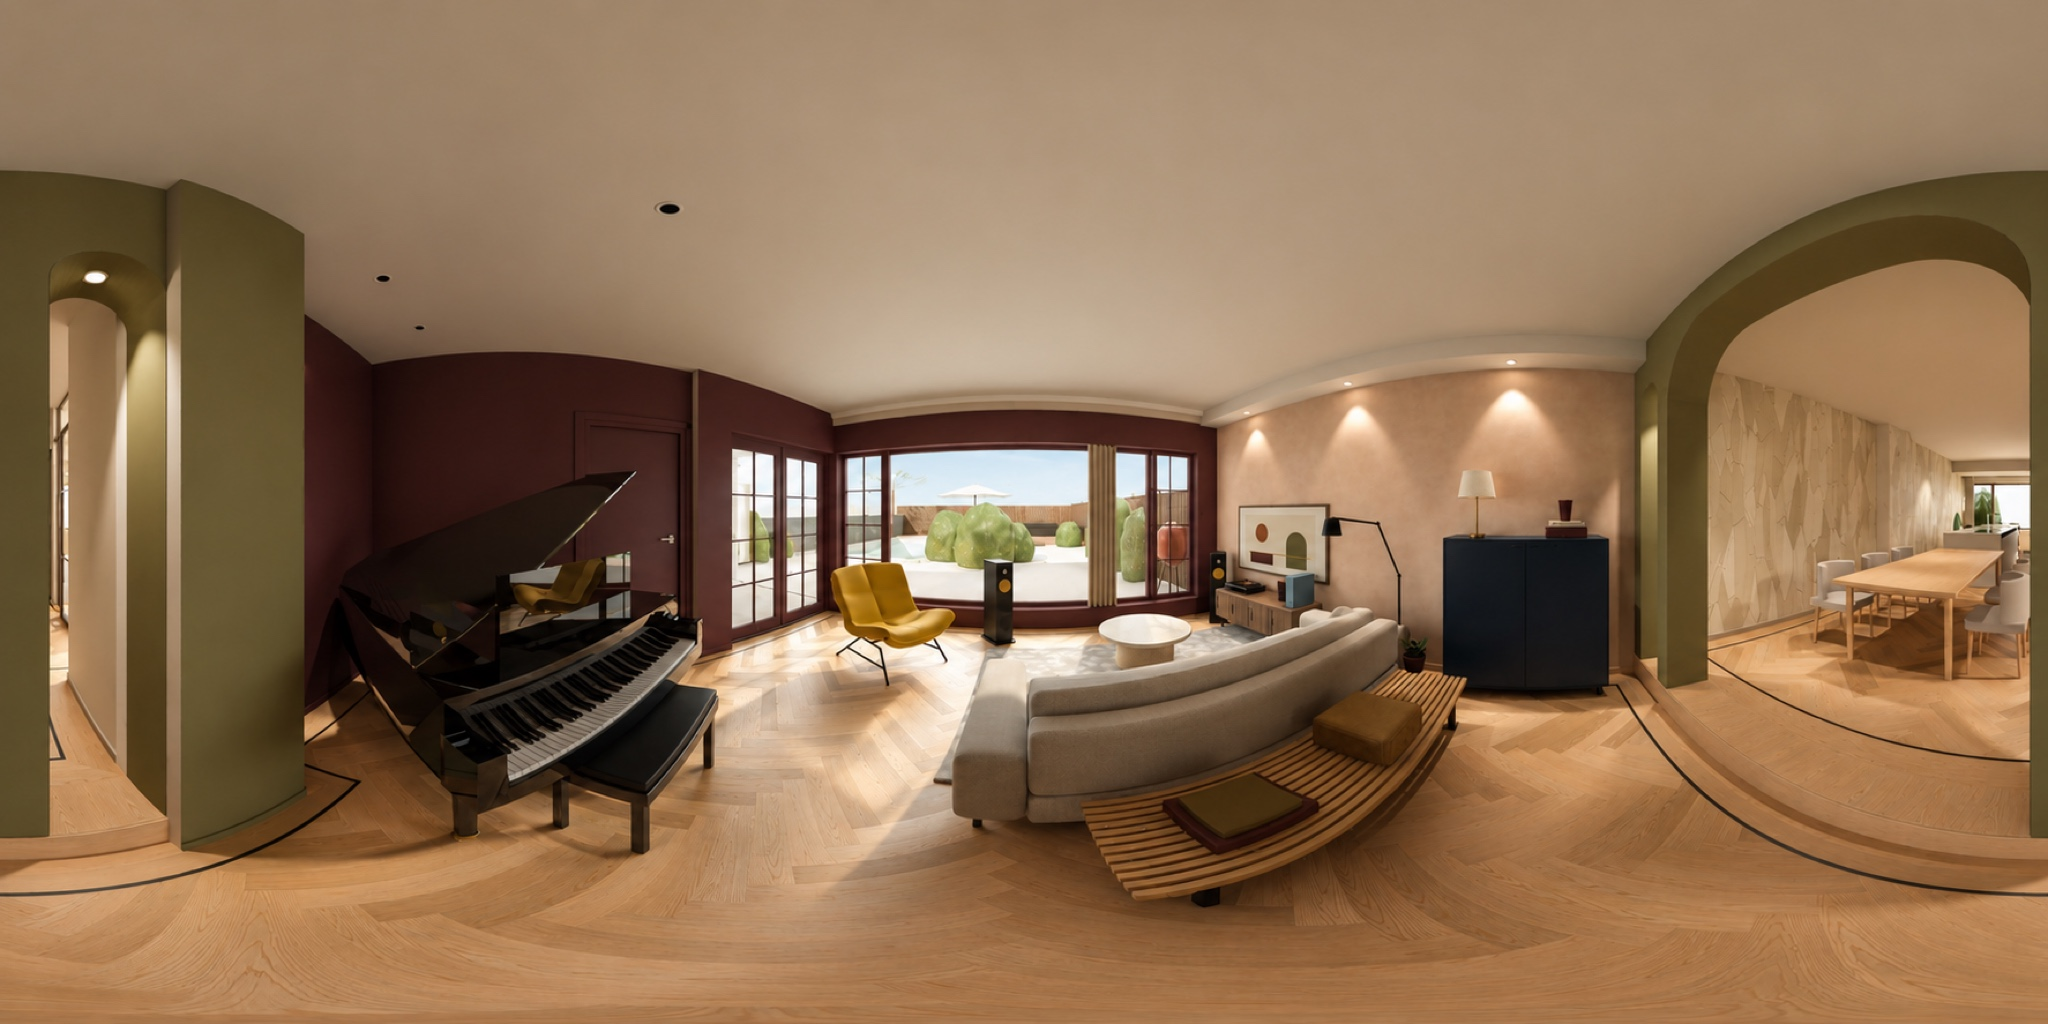
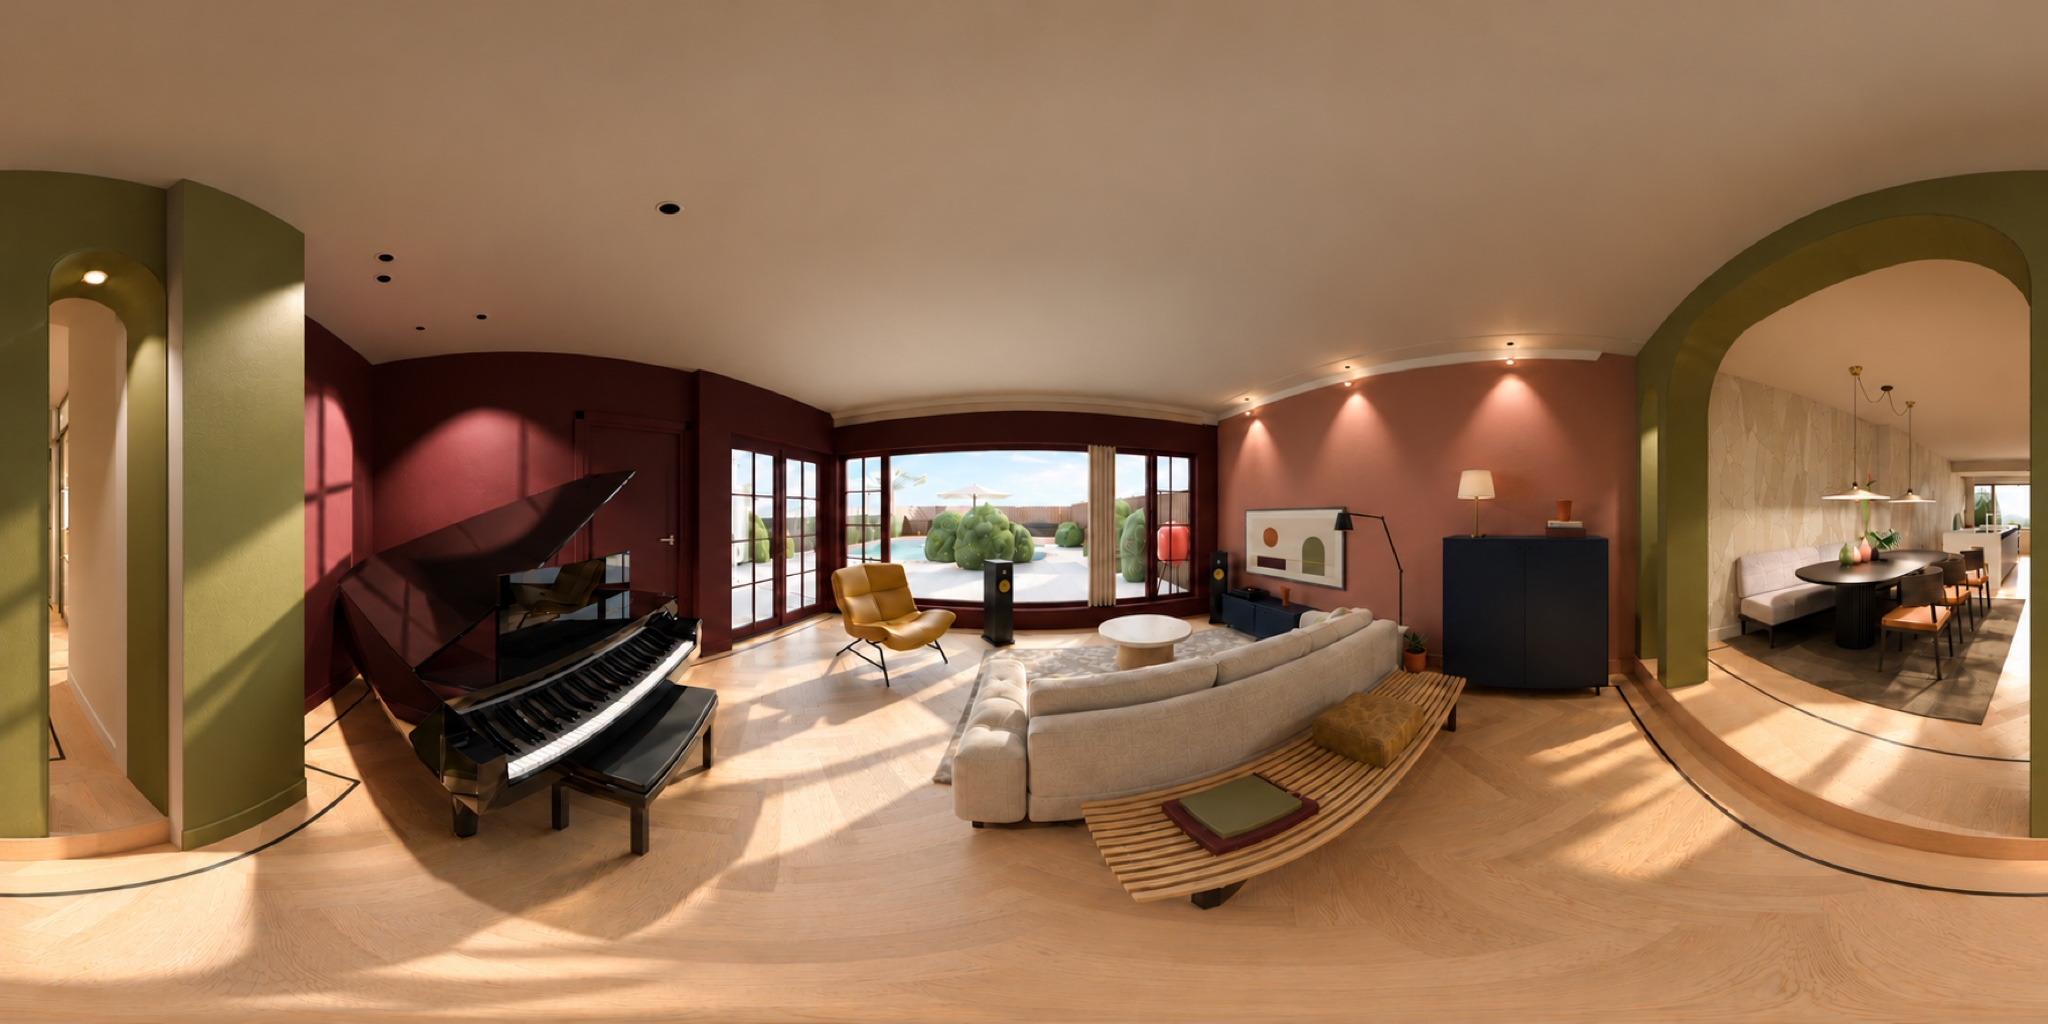
Fotorealistisch: erker en eiland erbij, overige AI-versies bijgewerkt; publicatiescript

diff --git a/index.html b/index.html
@@ -122,7 +122,7 @@ const LINKS = {
   hal:        [['eetzone', [7.10, -9.20]]],
 };
 const VOLGORDE = ['woonkamer', 'vleugel', 'eetzone', 'keuken', 'erker', 'eiland', 'speelkamer', 'hal'];
-const HEEFT_FOTO = new Set(['woonkamer', 'vleugel', 'eetzone', 'keuken', 'speelkamer', 'hal']);   // AI-versies die er zijn
+const HEEFT_FOTO = new Set(['eetzone', 'eiland', 'erker', 'hal', 'keuken', 'speelkamer', 'vleugel', 'woonkamer']);   // AI-versies die er zijn
 const deg = r => r * 180 / Math.PI;
 // midden van het panorama = +Y (tuinzijde); yaw naar rechts = +X
 function richting(a, p) {
